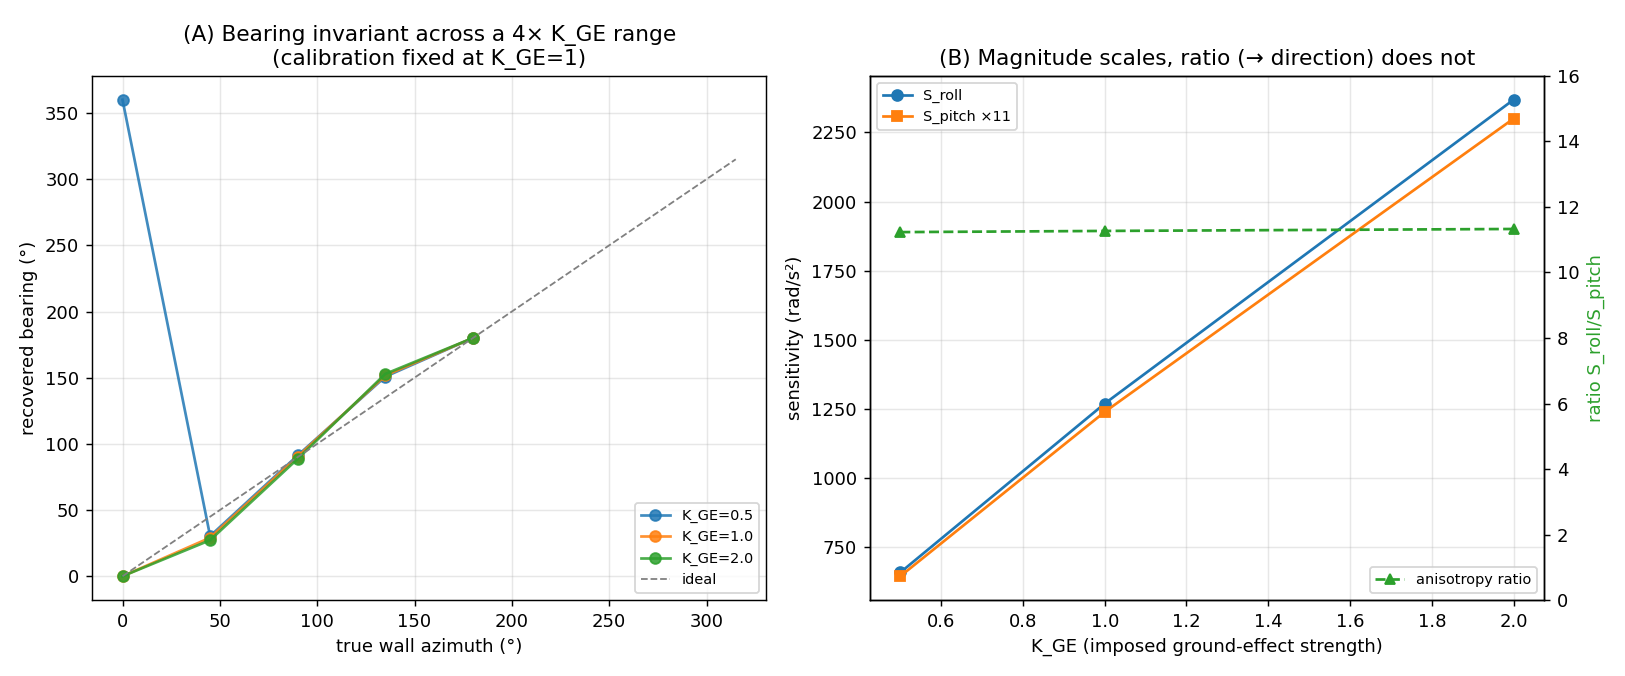
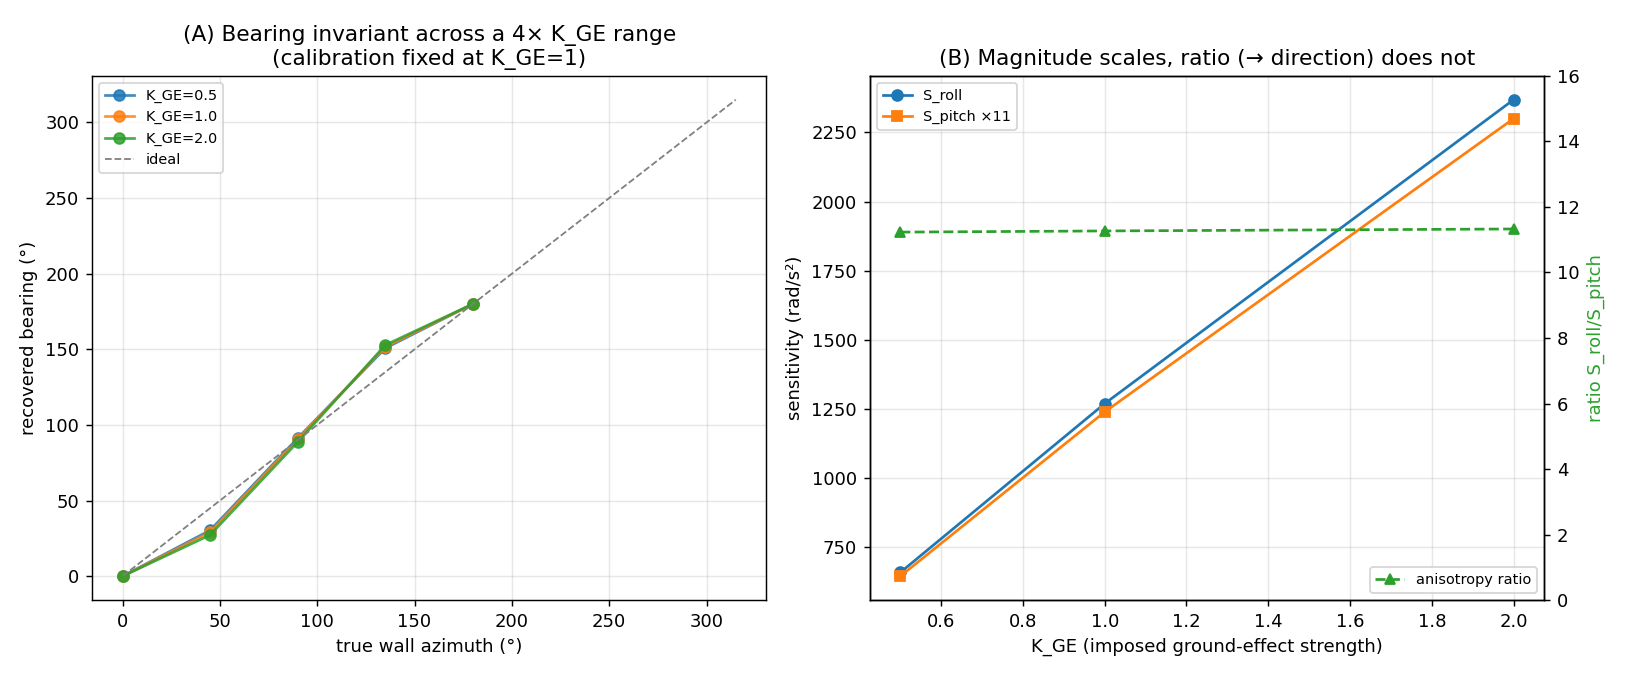
e21: revise robustness experiment and update output plot

diff --git a/experiments/e21_robustness.py b/experiments/e21_robustness.py
@@ -70,7 +70,7 @@ for kge in kge_sweep:
     recs, errs = [], []
     for a in azis:
         wx, wy = raw[kge][a]; rec = recover(wx, wy)
-        err = (rec - a + 180) % 360 - 180; recs.append(rec); errs.append(abs(err))
+        err = (rec - a + 180) % 360 - 180; recs.append(a + err); errs.append(abs(err))
     data[kge] = dict(Sr=Sr, Sp=Sp, recs=recs, mean_err=np.mean(errs))
     print(f" {kge:5.1f}{Sr:8.0f}{Sp:8.0f}{Sr/Sp:6.1f}{np.mean(errs):11.0f}°")
 